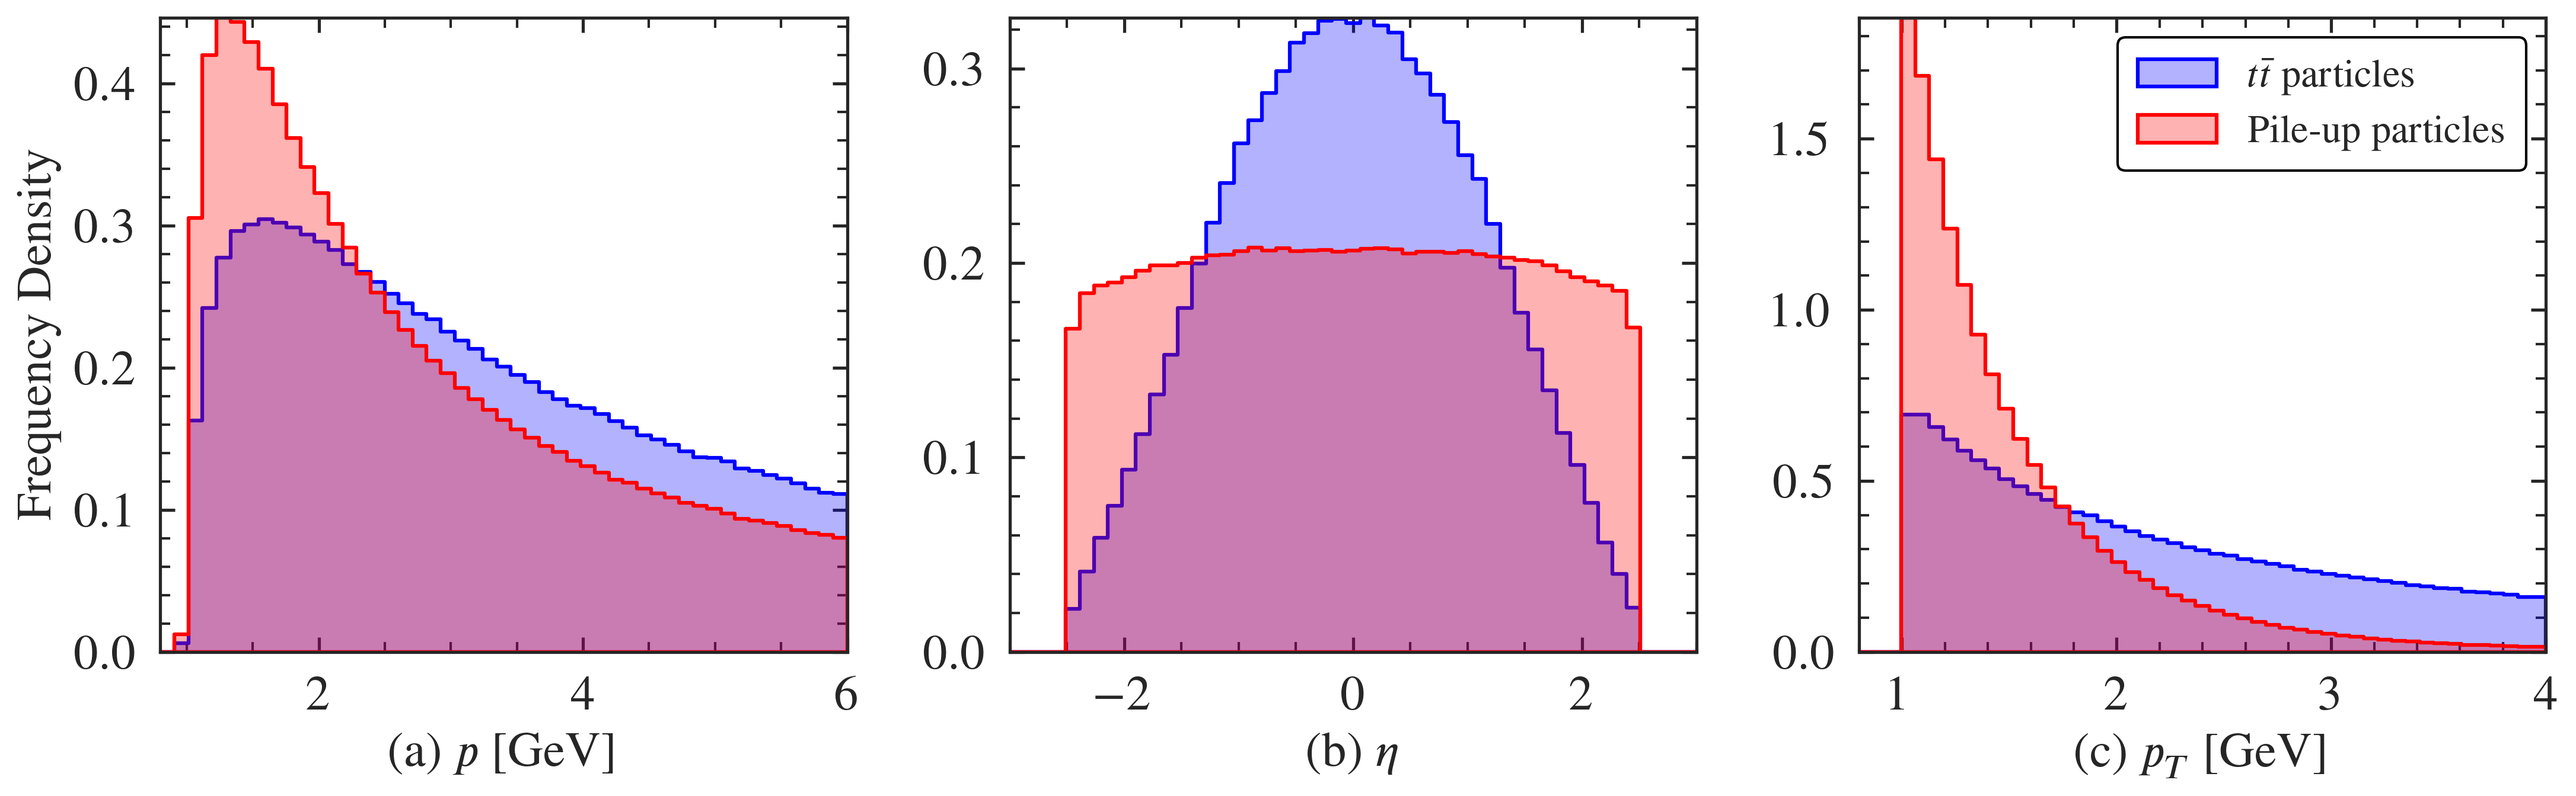
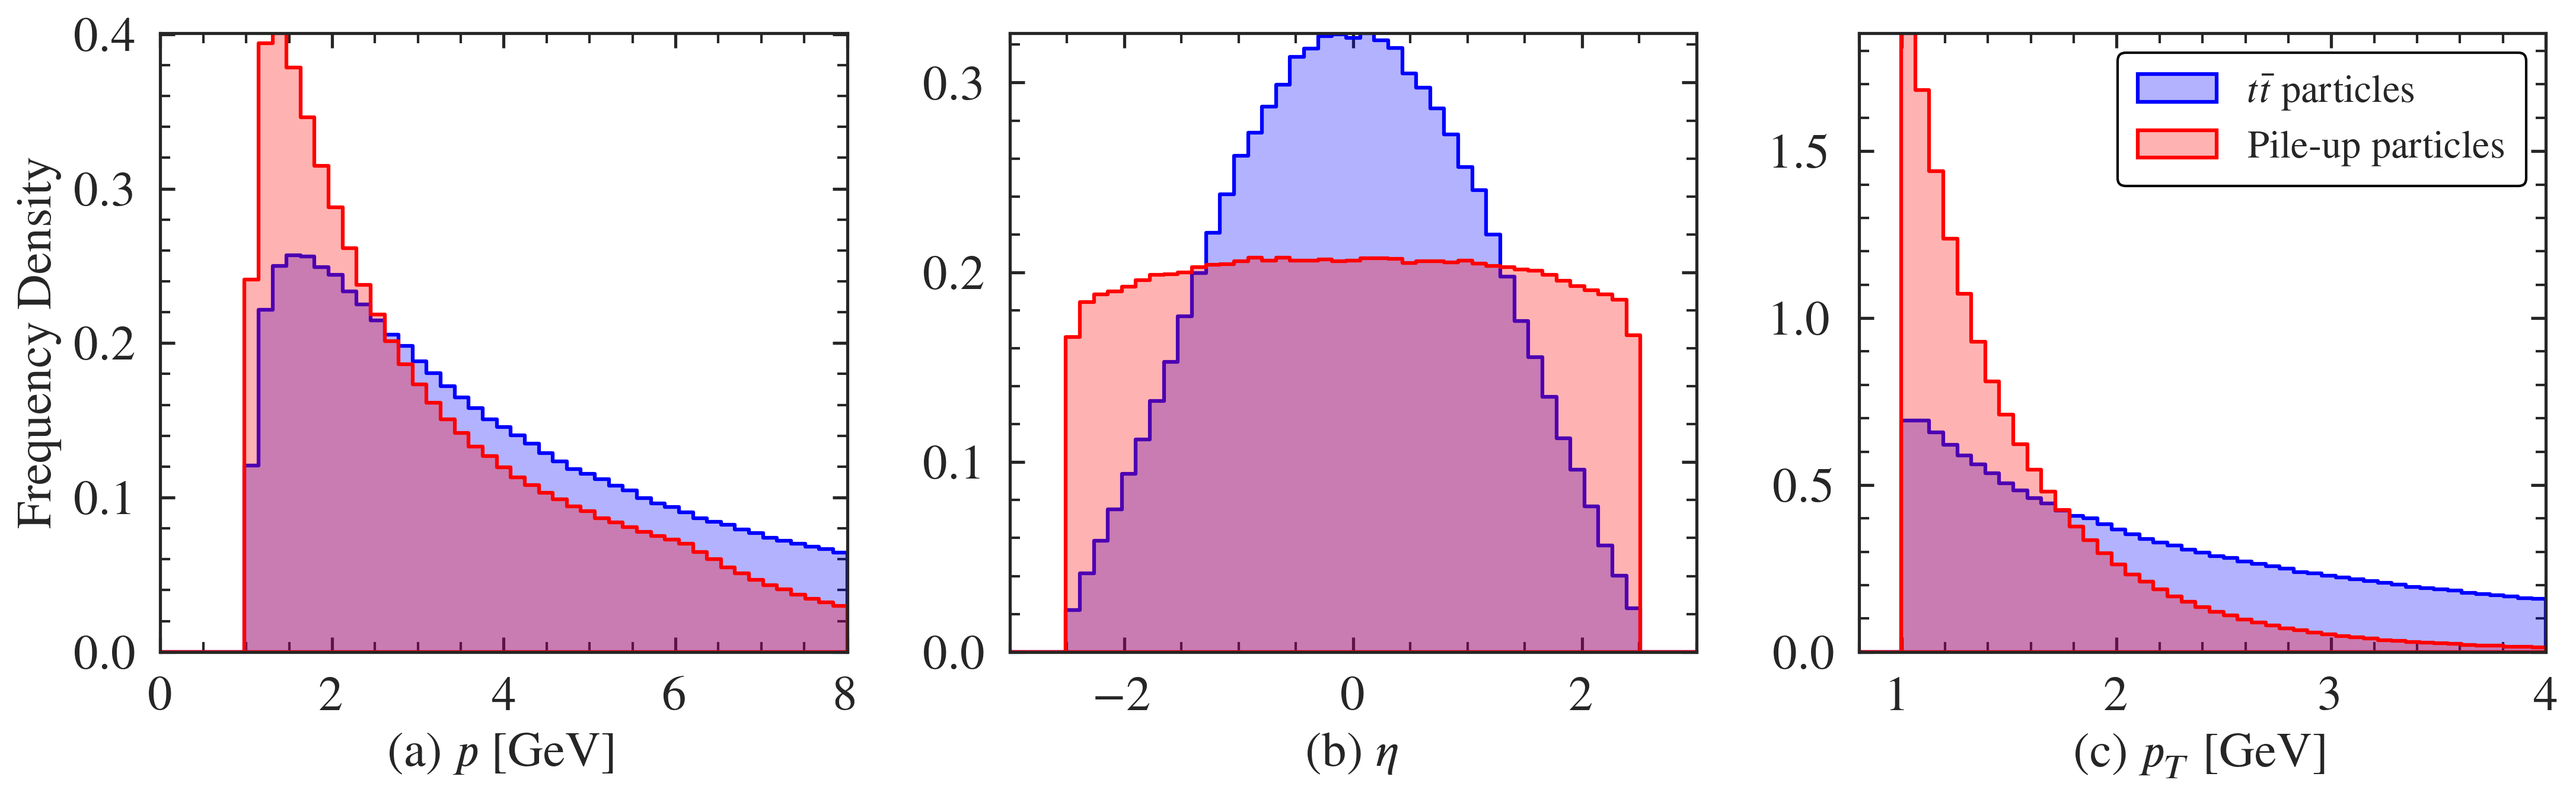
Gen part event-level hist tt and PU

diff --git a/DDPMLHC/generate_plots/histograms_1d.py b/DDPMLHC/generate_plots/histograms_1d.py
@@ -9,7 +9,7 @@ import multiprocessing
 from pathlib import Path
 # Local imports
 from DDPMLHC.config import *
-from DDPMLHC.calculate_quantities import p_magnitude, pseudorapidity
+from DDPMLHC.calculate_quantities import p_magnitude, particle_momenta_to_event_level, pseudorapidity
 line_thickness = 3.0
 axes_thickness = 4.0
 leg_size = 30
@@ -206,7 +206,7 @@ def plot_particle_level_quantities_comparison(save_path=None):
     fig, (ax1, ax2, ax3) = plt.subplots(1, 3, figsize=(15, 5))
     
     # Define plot ranges
-    p_range = (0.8, 6)
+    p_range = (0, 8)
     eta_range = (-3, 3)
     pt_range = (0.8, 4)
     
@@ -301,6 +301,103 @@ def plot_particle_level_quantities_comparison(save_path=None):
     plt.tight_layout()
     
     # Save or show
+    if save_path:
+        plt.savefig(save_path, dpi=300, bbox_inches="tight")
+        plt.close()
+    else:
+        plt.show()
+
+def plot_event_level_quantities_comparison(data_tt, data_pu, save_path=None):
+    """
+    Original written (and lost) by Roy Siu.
+    New code made with Claude 3.5.
+    Plot event-level momentum, pseudorapidity and transverse momentum distributions.
+    Overlay histograms from tt̄ and pile-up events.
+    """
+    # Group by event and calculate event-level quantities for tt̄ events
+    unique_events_tt = np.unique(data_tt[:, 0])
+    event_quantities_tt = []
+    for event in unique_events_tt:
+        event_mask = data_tt[:, 0] == event
+        event_data = data_tt[event_mask]
+        
+        enes = np.sqrt(event_data[:, 3]**2 + event_data[:, 4]**2 + event_data[:, 5]**2 + 1)
+        pxs = event_data[:, 3]
+        pys = event_data[:, 4]
+        pzs = event_data[:, 5]
+        
+        event_quantities = particle_momenta_to_event_level(enes, pxs, pys, pzs)
+        event_quantities_tt.append(event_quantities)
+    
+    # Do the same for pile-up events
+    unique_events_pu = np.unique(data_pu[:, 0])
+    event_quantities_pu = []
+    for event in unique_events_pu:
+        event_mask = data_pu[:, 0] == event
+        event_data = data_pu[event_mask]
+        
+        enes = np.sqrt(event_data[:, 3]**2 + event_data[:, 4]**2 + event_data[:, 5]**2 + 1)
+        pxs = event_data[:, 3]
+        pys = event_data[:, 4]
+        pzs = event_data[:, 5]
+        
+        event_quantities = particle_momenta_to_event_level(enes, pxs, pys, pzs)
+        event_quantities_pu.append(event_quantities)
+    
+    # Convert to numpy arrays for plotting
+    event_quantities_tt = np.array(event_quantities_tt)
+    event_quantities_pu = np.array(event_quantities_pu)
+    
+    # Extract specific quantities
+    mass_tt, px_tt, py_tt, pz_tt, eta_tt, phi_tt, pT_tt = event_quantities_tt.T
+    mass_pu, px_pu, py_pu, pz_pu, eta_pu, phi_pu, pT_pu = event_quantities_pu.T
+    
+    # Create figure with three subplots
+    fig, (ax1, ax2, ax3) = plt.subplots(1, 3, figsize=(15, 5))
+    
+    # Define plot ranges
+    mass_range = (50, 250)
+    eta_range = (-3, 3)
+    pt_range = (0, 500)
+    
+    # Plot 1: Mass
+    sb.histplot(data=mass_tt, bins=np.linspace(mass_range[0], mass_range[1], 50),
+                stat="density", color="blue", alpha=0.3, label="$t\\bar t$ events", ax=ax1,
+                edgecolor="blue", linewidth=1.5, element="step")
+    sb.histplot(data=mass_pu, bins=np.linspace(mass_range[0], mass_range[1], 50),
+                stat="density", color="red", alpha=0.3, label="pile-up", ax=ax1,
+                edgecolor="red", linewidth=1.5, element="step")
+    ax1.set_xlabel("(a) Event Mass [GeV]")
+    ax1.set_ylabel("Frequency Density")
+    ax1.set_xlim(mass_range)
+    ax1.legend(fontsize=14, frameon=True, framealpha=1.0, edgecolor='black', borderpad=0.5)
+    
+    # Plot 2: Pseudorapidity
+    sb.histplot(data=eta_tt, bins=np.linspace(eta_range[0], eta_range[1], 50),
+                stat="density", color="blue", alpha=0.3, label="$t\\bar t$ events", ax=ax2,
+                edgecolor="blue", linewidth=1.5, element="step")
+    sb.histplot(data=eta_pu, bins=np.linspace(eta_range[0], eta_range[1], 50),
+                stat="density", color="red", alpha=0.3, label="pile-up", ax=ax2,
+                edgecolor="red", linewidth=1.5, element="step")
+    ax2.set_xlabel("(b) Event $\eta$")
+    ax2.set_ylabel("")
+    ax2.set_xlim(eta_range)
+    ax2.legend(fontsize=14, frameon=True, framealpha=1.0, edgecolor='black', borderpad=0.5)
+    
+    # Plot 3: Transverse Momentum
+    sb.histplot(data=pT_tt, bins=np.linspace(pt_range[0], pt_range[1], 50),
+                stat="density", color="blue", alpha=0.3, label="$t\\bar t$ events", ax=ax3,
+                edgecolor="blue", linewidth=1.5, element="step")
+    sb.histplot(data=pT_pu, bins=np.linspace(pt_range[0], pt_range[1], 50),
+                stat="density", color="red", alpha=0.3, label="pile-up", ax=ax3,
+                edgecolor="red", linewidth=1.5, element="step")
+    ax3.set_xlabel("(c) Event $p_T$ [GeV]")
+    ax3.set_ylabel("")
+    ax3.set_xlim(pt_range)
+    ax3.legend(fontsize=16, frameon=True, framealpha=1.0, edgecolor='black', borderpad=0.5)
+    
+    # Adjust layout and save
+    plt.tight_layout()
     if save_path:
         plt.savefig(save_path, dpi=300, bbox_inches="tight")
         plt.close()

diff --git a/DDPMLHC/main_rs.py b/DDPMLHC/main_rs.py
@@ -6,7 +6,7 @@ import polars as pl
 from DDPMLHC.config import *
 from DDPMLHC.calculate_quantities import *
 from DDPMLHC.data_loading import *
-from DDPMLHC.generate_plots.histograms_1d import plot_1d_histograms, plot_particle_level_quantities_comparison
+from DDPMLHC.generate_plots.histograms_1d import plot_1d_histograms, plot_event_level_quantities_comparison, plot_particle_level_quantities_comparison
 from DDPMLHC.generate_plots.overlaid_1d import create_overlay_plots
 from DDPMLHC.generate_plots.overlaid_debin import create_overlay_plots_debin
 from DDPMLHC.generate_plots.bmap import plot_mu_comparison, save_to_bmap
@@ -252,5 +252,5 @@ mpl.rcParams.update(MPL_GLOBAL_PARAMS)
 
 #################################################################################
 
-save_path = f"{CWD}/data/plots/particle_level_quantities_comparison.png"
-plot_particle_level_quantities_comparison(save_path)
+# plot_particle_level_quantities_comparison(f"{CWD}/data/plots/particle_level_quantities_comparison.png")
+plot_event_level_quantities_comparison(f"{CWD}/data/plots/event_level_quantities_comparison.png")
